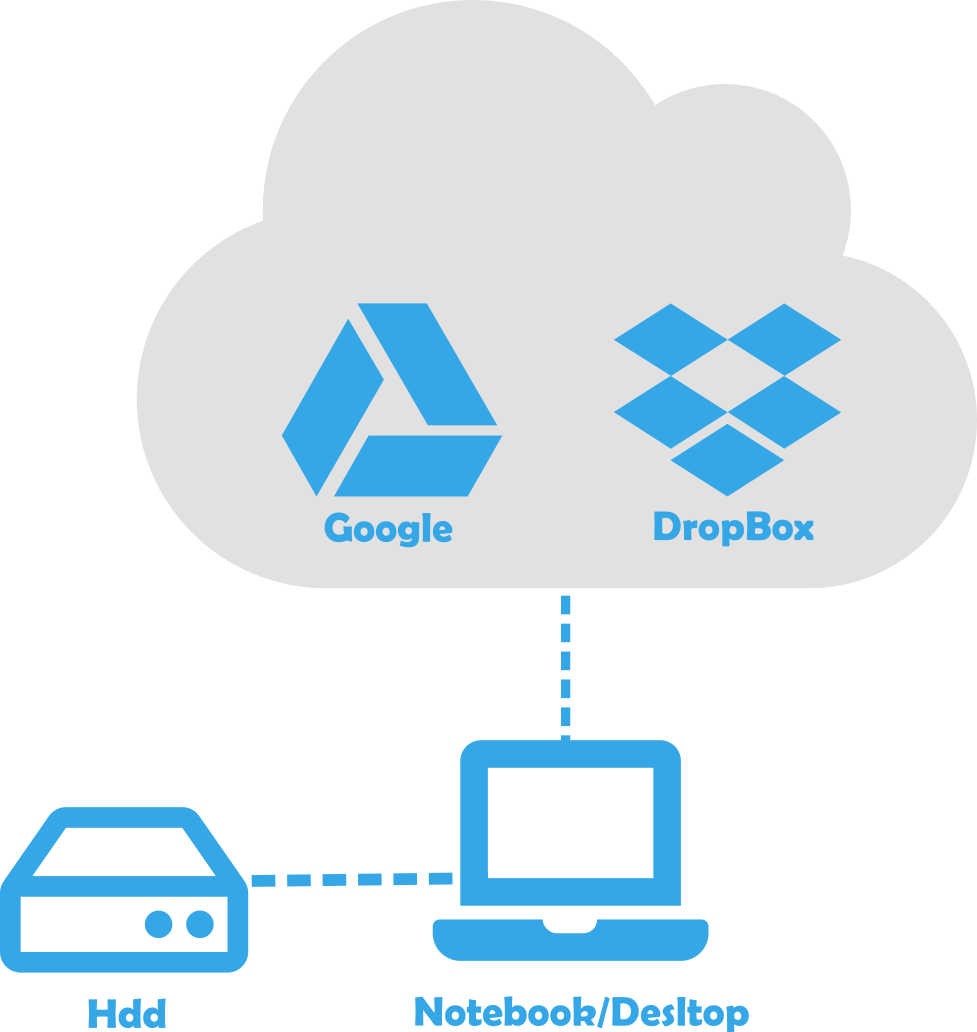
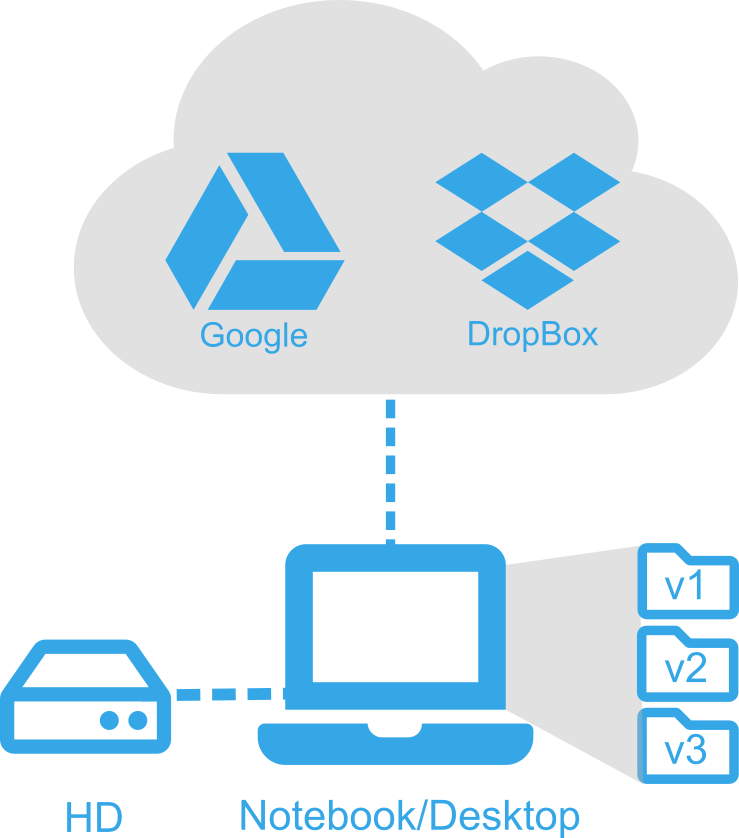
padrão ok

diff --git a/docs/padrao_db.html b/docs/padrao_db.html
@@ -381,7 +381,7 @@ text-align: justify}
 </style>
 <div id="visão-geral" class="section level2">
 <h2>Visão Geral</h2>
-<p>Este documento tem como objetivo registrar os padrões a serem seguidos para a formatação das bases de dados produzidas no âmbito do <strong>PELD-ILOC</strong>. Os formatos e procedimentos aqui descritos são um resultado do <em>workshop</em> realizado em 17 de setembro de 2021. <br><br></p>
+<p>Este documento tem como objetivo registrar os padrões a serem seguidos pelos pesquisadores da rede para a formatação das bases de dados produzidas no âmbito do <strong>PELD-ILOC</strong>. Os formatos e procedimentos aqui descritos são um resultado do <em>workshop</em> realizado em 17 de setembro de 2021. <br><br></p>
 </div>
 <div id="padronização-dados-peld-iloc" class="section level2">
 <h2>Padronização dados PELD-ILOC</h2>
@@ -425,56 +425,190 @@ text-align: justify}
 </tr>
 <tr class="odd">
 <td align="left">Adição de aba README</td>
-<td align="center">Criação desta aba (Ver <a href="https://peld-iloc.github.io/Peld_Iloc_Data_WS/dados.html">Organização de bancos de dados</a>)</td>
+<td align="center">Criação desta aba</td>
 </tr>
 <tr class="even">
 <td align="left">Fotos analisadas</td>
-<td align="center">Verificar nome do arquvivo de foto e/ou vide e veficar se estão nas pastas <br><br></td>
+<td align="center">Verificar nome do arquivo de foto e/ou video e verificar se estão nas pastas</td>
 </tr>
 </tbody>
 </table>
+<p><br><br></p>
 <div id="coordenadas-e-nomes-de-sites" class="section level3">
 <h3>Coordenadas e nomes de <em>sites</em></h3>
-<p>A conferência de coordenadas e nomes de locais gerou um arquivo de referência. Este arquivo foi obtido com informações pessoais de pesquisadores que estiveram nos locais e conferêncis com publicações. Es</p>
+<p>A conferência de coordenadas e nomes de locais gerou um arquivo de referência. Este arquivo foi obtido com informações pessoais de pesquisadores que estiveram nos locais e com base em publicações do <strong>PELD-ILOC</strong>.</p>
+<p>Arquivo excel com as coordendas confirmadas para cada <em>site</em>.</p>
+<p><a href="https://github.com/peld-iloc/site_coordinates">peld_iloc_site_coordinates_Thiago_Silveira_2021_08_11.xlsx</a></p>
+<p>A idéia é que este arquivo seja atualizado ao passo que bases de dados sejam revisadas e conferidas.</p>
+<p>A tabela abaixo lista o status de confirmação de nomes de sites e coordenadas do <strong>PELD-ILOC</strong>:</p>
+<table>
+<thead>
+<tr class="header">
+<th align="left">Grupo</th>
+<th align="center">Status</th>
+</tr>
+</thead>
+<tbody>
+<tr class="odd">
+<td align="left">Peixes Recifais</td>
+<td align="center"><svg viewBox="0 0 512 512" style="height:1em;position:relative;display:inline-block;top:.1em;" xmlns="http://www.w3.org/2000/svg"> <path d="M173.898 439.404l-166.4-166.4c-9.997-9.997-9.997-26.206 0-36.204l36.203-36.204c9.997-9.998 26.207-9.998 36.204 0L192 312.69 432.095 72.596c9.997-9.997 26.207-9.997 36.204 0l36.203 36.204c9.997 9.997 9.997 26.206 0 36.204l-294.4 294.401c-9.998 9.997-26.207 9.997-36.204-.001z"></path></svg></td>
+</tr>
+<tr class="even">
+<td align="left">Bentos (Noronha e Rocas)</td>
+<td align="center"><svg viewBox="0 0 512 512" style="height:1em;position:relative;display:inline-block;top:.1em;" xmlns="http://www.w3.org/2000/svg"> <path d="M173.898 439.404l-166.4-166.4c-9.997-9.997-9.997-26.206 0-36.204l36.203-36.204c9.997-9.998 26.207-9.998 36.204 0L192 312.69 432.095 72.596c9.997-9.997 26.207-9.997 36.204 0l36.203 36.204c9.997 9.997 9.997 26.206 0 36.204l-294.4 294.401c-9.998 9.997-26.207 9.997-36.204-.001z"></path></svg></td>
+</tr>
+<tr class="odd">
+<td align="left">Grapsus</td>
+<td align="center"><svg viewBox="0 0 352 512" style="height:1em;position:relative;display:inline-block;top:.1em;" xmlns="http://www.w3.org/2000/svg"> <path d="M242.72 256l100.07-100.07c12.28-12.28 12.28-32.19 0-44.48l-22.24-22.24c-12.28-12.28-32.19-12.28-44.48 0L176 189.28 75.93 89.21c-12.28-12.28-32.19-12.28-44.48 0L9.21 111.45c-12.28 12.28-12.28 32.19 0 44.48L109.28 256 9.21 356.07c-12.28 12.28-12.28 32.19 0 44.48l22.24 22.24c12.28 12.28 32.2 12.28 44.48 0L176 322.72l100.07 100.07c12.28 12.28 32.2 12.28 44.48 0l22.24-22.24c12.28-12.28 12.28-32.19 0-44.48L242.72 256z"></path></svg></td>
+</tr>
+<tr class="even">
+<td align="left">Bioprospecção</td>
+<td align="center"><svg viewBox="0 0 352 512" style="height:1em;position:relative;display:inline-block;top:.1em;" xmlns="http://www.w3.org/2000/svg"> <path d="M242.72 256l100.07-100.07c12.28-12.28 12.28-32.19 0-44.48l-22.24-22.24c-12.28-12.28-32.19-12.28-44.48 0L176 189.28 75.93 89.21c-12.28-12.28-32.19-12.28-44.48 0L9.21 111.45c-12.28 12.28-12.28 32.19 0 44.48L109.28 256 9.21 356.07c-12.28 12.28-12.28 32.19 0 44.48l22.24 22.24c12.28 12.28 32.2 12.28 44.48 0L176 322.72l100.07 100.07c12.28 12.28 32.2 12.28 44.48 0l22.24-22.24c12.28-12.28 12.28-32.19 0-44.48L242.72 256z"></path></svg></td>
+</tr>
+<tr class="odd">
+<td align="left">Bruv</td>
+<td align="center"><svg viewBox="0 0 352 512" style="height:1em;position:relative;display:inline-block;top:.1em;" xmlns="http://www.w3.org/2000/svg"> <path d="M242.72 256l100.07-100.07c12.28-12.28 12.28-32.19 0-44.48l-22.24-22.24c-12.28-12.28-32.19-12.28-44.48 0L176 189.28 75.93 89.21c-12.28-12.28-32.19-12.28-44.48 0L9.21 111.45c-12.28 12.28-12.28 32.19 0 44.48L109.28 256 9.21 356.07c-12.28 12.28-12.28 32.19 0 44.48l22.24 22.24c12.28 12.28 32.2 12.28 44.48 0L176 322.72l100.07 100.07c12.28 12.28 32.2 12.28 44.48 0l22.24-22.24c12.28-12.28 12.28-32.19 0-44.48L242.72 256z"></path></svg></td>
+</tr>
+<tr class="even">
+<td align="left">Colônias de Coral (G.longo)</td>
+<td align="center"><svg viewBox="0 0 352 512" style="height:1em;position:relative;display:inline-block;top:.1em;" xmlns="http://www.w3.org/2000/svg"> <path d="M242.72 256l100.07-100.07c12.28-12.28 12.28-32.19 0-44.48l-22.24-22.24c-12.28-12.28-32.19-12.28-44.48 0L176 189.28 75.93 89.21c-12.28-12.28-32.19-12.28-44.48 0L9.21 111.45c-12.28 12.28-12.28 32.19 0 44.48L109.28 256 9.21 356.07c-12.28 12.28-12.28 32.19 0 44.48l22.24 22.24c12.28 12.28 32.2 12.28 44.48 0L176 322.72l100.07 100.07c12.28 12.28 32.2 12.28 44.48 0l22.24-22.24c12.28-12.28 12.28-32.19 0-44.48L242.72 256z"></path></svg></td>
+</tr>
+<tr class="odd">
+<td align="left">Dinoflagelados</td>
+<td align="center"><svg viewBox="0 0 352 512" style="height:1em;position:relative;display:inline-block;top:.1em;" xmlns="http://www.w3.org/2000/svg"> <path d="M242.72 256l100.07-100.07c12.28-12.28 12.28-32.19 0-44.48l-22.24-22.24c-12.28-12.28-32.19-12.28-44.48 0L176 189.28 75.93 89.21c-12.28-12.28-32.19-12.28-44.48 0L9.21 111.45c-12.28 12.28-12.28 32.19 0 44.48L109.28 256 9.21 356.07c-12.28 12.28-12.28 32.19 0 44.48l22.24 22.24c12.28 12.28 32.2 12.28 44.48 0L176 322.72l100.07 100.07c12.28 12.28 32.2 12.28 44.48 0l22.24-22.24c12.28-12.28 12.28-32.19 0-44.48L242.72 256z"></path></svg></td>
+</tr>
+<tr class="even">
+<td align="left">Interação Peixes-Bentos</td>
+<td align="center"><svg viewBox="0 0 352 512" style="height:1em;position:relative;display:inline-block;top:.1em;" xmlns="http://www.w3.org/2000/svg"> <path d="M242.72 256l100.07-100.07c12.28-12.28 12.28-32.19 0-44.48l-22.24-22.24c-12.28-12.28-32.19-12.28-44.48 0L176 189.28 75.93 89.21c-12.28-12.28-32.19-12.28-44.48 0L9.21 111.45c-12.28 12.28-12.28 32.19 0 44.48L109.28 256 9.21 356.07c-12.28 12.28-12.28 32.19 0 44.48l22.24 22.24c12.28 12.28 32.2 12.28 44.48 0L176 322.72l100.07 100.07c12.28 12.28 32.2 12.28 44.48 0l22.24-22.24c12.28-12.28 12.28-32.19 0-44.48L242.72 256z"></path></svg></td>
+</tr>
+<tr class="odd">
+<td align="left">Zooxantelas</td>
+<td align="center"><svg viewBox="0 0 352 512" style="height:1em;position:relative;display:inline-block;top:.1em;" xmlns="http://www.w3.org/2000/svg"> <path d="M242.72 256l100.07-100.07c12.28-12.28 12.28-32.19 0-44.48l-22.24-22.24c-12.28-12.28-32.19-12.28-44.48 0L176 189.28 75.93 89.21c-12.28-12.28-32.19-12.28-44.48 0L9.21 111.45c-12.28 12.28-12.28 32.19 0 44.48L109.28 256 9.21 356.07c-12.28 12.28-12.28 32.19 0 44.48l22.24 22.24c12.28 12.28 32.2 12.28 44.48 0L176 322.72l100.07 100.07c12.28 12.28 32.2 12.28 44.48 0l22.24-22.24c12.28-12.28 12.28-32.19 0-44.48L242.72 256z"></path></svg></td>
+</tr>
+</tbody>
+</table>
+<p><br></p>
+<svg viewBox="0 0 576 512" style="height:1em;position:relative;display:inline-block;top:.1em;" xmlns="http://www.w3.org/2000/svg">
+<path d="M569.517 440.013C587.975 472.007 564.806 512 527.94 512H48.054c-36.937 0-59.999-40.055-41.577-71.987L246.423 23.985c18.467-32.009 64.72-31.951 83.154 0l239.94 416.028zM288 354c-25.405 0-46 20.595-46 46s20.595 46 46 46 46-20.595 46-46-20.595-46-46-46zm-43.673-165.346l7.418 136c.347 6.364 5.609 11.346 11.982 11.346h48.546c6.373 0 11.635-4.982 11.982-11.346l7.418-136c.375-6.874-5.098-12.654-11.982-12.654h-63.383c-6.884 0-12.356 5.78-11.981 12.654z"></path>
+</svg>
+<p>Uma dica importante na hora da revisão das coordendas é formatar a coluna como <strong>texto</strong>. Isso evita a formatação automática que o <strong>excel</strong> faz caso você esteja usando o padrão de linguagem em Português. <br><br></p>
 </div>
+<div id="datas" class="section level3">
+<h3>Datas</h3>
+<p>O formato de registro de datas a ser adotado é dia, mês e ano em colunas separadas.</p>
 </div>
-<div id="padrão-geral-de-organização" class="section level2">
-<h2>Padrão Geral de Organização</h2>
+<div id="nomes-de-variáveis" class="section level3">
+<h3>Nomes de variáveis</h3>
+<p>Sugere-se que se use somente letras minúsculas com separação entre palavras usando "_".</p>
+<p>Abaixo algumas sugestões de nomes de variáveis:</p>
+<table>
+<thead>
+<tr class="header">
+<th align="center">Variável</th>
+<th align="center">Boa opção</th>
+<th align="center">Evitar</th>
+</tr>
+</thead>
+<tbody>
+<tr class="odd">
+<td align="center">Temperatura máxima (graus Celsius)</td>
+<td align="center">max_temp_c</td>
+<td align="center">Maximun Temp (C°)</td>
+</tr>
+<tr class="even">
+<td align="center">Precipitação (mm)</td>
+<td align="center">precip_mm</td>
+<td align="center">prec</td>
+</tr>
+<tr class="odd">
+<td align="center">Massa (Kg)</td>
+<td align="center">massa_kg</td>
+<td align="center">Massa (Kg)</td>
+</tr>
+<tr class="even">
+<td align="center">Visibilidade horizontal (metros)</td>
+<td align="center">vis_hrz_m</td>
+<td align="center">visib (m)</td>
+</tr>
+<tr class="odd">
+<td align="center">Latitude (graus decimais)</td>
+<td align="center">lat_DD</td>
+<td align="center">lat</td>
+</tr>
+</tbody>
+</table>
+</div>
+<div id="nomes-de-espécies" class="section level3">
+<h3>Nomes de espécies</h3>
+<p>Os nomes das identificações taxonômicas podem ser confirmados utilizando-se funções do pacote worms e rfishbase.</p>
+<p>Abaixo um exemplo de como fazer a validação de nomes de espécies usando o pacote <strong>worms</strong>. O mesmo procedimento pode ser realizado também usando o pacote <strong>rfishbase</strong>. Scripts de exemplo podem ser acessados <a href="https://github.com/peld-iloc/taxonomic_validation">neste repositório</a> do <strong>PELD-ILOC</strong>.</p>
+<pre class="r"><code>library(worms)
+# Criando o vetor de táxons
+sp_Names = unique(DF.benthos$name) 
+
+# Passo 1
+# Extraindo taxon rank do WoRMS e identificando os nomes inválidos
+scNames_rank = wormsbynames(sp_Names, verbose = F)
+
+# Passo 2 - listando os nomes não aceitos
+scNames_rank %&gt;% 
+  filter( status == &quot;unaccepted&quot;)
+
+# Alterando os nomes manualmente para os nomes válidos indicados pelo WoRMS 
+DF.benthos = DF.benthos %&gt;%
+    mutate(name = str_replace(name, pattern = &quot;favia_leptophylla&quot;, replacement = &quot;mussismilia_leptophylla&quot;)) %&gt;%
+    mutate(name = str_replace(name, pattern = &quot;protopalythoa&quot;, replacement = &quot;palythoa&quot;)) %&gt;%  
+
+#  Passo 3  - Rodando novamente para confirmar 
+sp_Names = unique(DF.benthos$name)
+scNames_rank = wormsbynames(sp_Names, verbose = F)
+
+scNames_rank %&gt;% 
+  filter( status == &quot;unaccepted&quot;)
+# Zero issues - ok</code></pre>
+<p><br><br></p>
+</div>
+<div id="arquivo-ou-aba-readme" class="section level3">
+<h3>Arquivo ou aba README</h3>
+<p>Será adotado pelo PELD-ILOC que todos os arquivos de dados produzidos apresentem uma aba ou arquivo <strong>README</strong>. A adição destas informações, ou <strong>metadados</strong>. é importante compreenssão do que está sendo apresentado no arquivo.</p>
+<p>Neste <a href="https://github.com/peld-iloc/data_example">respositório</a> você pode acessar dois exemplos de bancos de dados com os <strong>dados</strong> e <strong>metadados (README)</strong>.<br />
+<br><br></p>
+</div>
 <div id="tipos-de-arquivos" class="section level3">
 <h3>Tipos de arquivos</h3>
 <p>Os dados dos diferentes grupos e variáveis amostradas no <strong>PELD-ILOC</strong> são armazenadas em arquivos <strong>excel</strong>. Os arquivos tipo .xlsx são adequados para o armazenamento dos dados e são de fácil acesso e edição por todos os usuários das rede. Também são aceitos arquivos do tipo .csv, desde de que sigam as orientações a seguir. Além dos arquivos de dados, são armazenados também arquivos de fotos e vídeos. <br><br></p>
 <p><img src= "figs/padrao_db_4.png" style= "width:90%"> <br><br></p>
 </div>
-<div id="estrutura-de-organização-de-arquivos" class="section level3">
-<h3>Estrutura de organização de arquivos</h3>
-<div id="banco-de-dados-simples" class="section level4">
-<h4>Banco de dados simples</h4>
+</div>
+<div id="estrutura-de-organização-de-arquivos" class="section level2">
+<h2>Estrutura de organização de arquivos</h2>
+<div id="banco-de-dados-simples" class="section level3">
+<h3>Banco de dados simples</h3>
 <p>Abaixo um modelo simples de organização de dados para os Peixes Recifais:</p>
 <p><img src= "figs/padrao_db_1.png" style= "width:70%"></p>
 <p>Ainda no mesmo arquivo, sugere-se fortemente que seja adicionada uma aba <strong>README</strong>.</p>
 <p>Caso sejam dados apresentados em formato .txt ou .csv, sugere-se a criação de uma pasta zip com dois arquivos: os dados e o arquivo <strong>README</strong></p>
 <p><img src= "figs/padrao_db_2.png" style= "width:70%"><br />
 <br><br><br></p>
-<p>(link modelo)[ ]</p>
-</div>
+<p><a href="https://github.com/peld-iloc/data_example">Exemplo</a> <br><br></p>
 </div>
 <div id="bancos-de-dados-acompanhados-de-outras-mídias-fotos-e-videos" class="section level3">
 <h3>Bancos de Dados acompanhados de outras mídias (Fotos e Videos)</h3>
 <p>Algumas bases de dados são mais complexas e apresentam além de um arquivo com os dados pastas com fotos analisadas em Photoquad ou Cpce.</p>
 <p>Abaixo um modelo de organização proposto para Comunidade de Bentos:</p>
 <p><img src= "figs/padrao_db_3.png" style= "width:70%"> <br><br></p>
-<p>(link modelo)[ ]</p>
+<p><a href="https://github.com/peld-iloc/data_example">Exemplo</a></p>
 </div>
-<div id="nomeação-de-arquivos" class="section level3">
-<h3>Nomeação de arquivos</h3>
+<div id="nomeando-de-arquivos" class="section level3">
+<h3>Nomeando de arquivos</h3>
 <p>Considerando os tipos de dados disponíveis, sugere-se que os arquivos sejam nomeados da seguinte maneira:</p>
 <p><img src= "figs/padrao_db_5.png" style= "width:90%"> <br><br><br></p>
-<p>Com o objetivo de padronizar os nomes dios grupos, abaixo segue uma sugestão: <br><br></p>
+<p>Com o objetivo de padronizar os nomes dos grupos, abaixo segue uma sugestão: <br><br></p>
 <table>
 <thead>
 <tr class="header">
 <th align="center">Grupo</th>
-<th align="center">Tipo de dado</th>
+<th align="center">Tipo de informação</th>
 <th align="right">Sugestão de código para o grupo</th>
 </tr>
 </thead>
@@ -536,10 +670,13 @@ text-align: justify}
 </div>
 <div id="back-up-dos-dados" class="section level2">
 <h2>Back up dos dados</h2>
-<p>Seguindo a regra dos 3-2-1</p>
-<p>google drive</p>
-<p>Drop box</p>
-<p>Hard drive/computador</p>
+<p>Os dados enviados de cada grupo estão sendo salvos em um repositório do Google Drive. Estes arquivos enviados também são salvos nos nos computadores dos pesquisadores que estão analisando os dados, obviamente. No entanto, não foi detectado um protocolo formal de como e onde estes arquivos estão sendo salvos com a curadoria do <strong>PELD-ILOC</strong>.</p>
+<p>A sugestão é que se aplique a regra do 3-2-1.</p>
+<ul>
+<li><p>3 cópias diferentes ou versões: três cópias com versões de diferentes períodos. Por exemplo, atualmente temos uma <strong>versão 1</strong> da pasta com todos os dados enviados. Após o workshop teremos uma <strong>versão 2</strong> com todos o bancos de dados atualizados e conferidos. Depois de tabular todos os dados de uma próxima expedição poderemos ter a <strong>versão 3</strong> temporal do conjunto de dados;</p></li>
+<li><p>2 tipos de mídias: Ter a cópia das versões em mais de um tipo de mídia, por exemplo, HD/pen drive e um computador. De preferência que estes não fiquem no mesmo local.</p></li>
+<li><p>1 cópia em local externo: Serviços como Google Drive ou DropBox. <br><br></p></li>
+</ul>
 <p><img src= "figs/padrao_db_6.png" style= "width:70%"> <br><br><br></p>
 </div>
 

diff --git a/docs/github.html b/docs/github.html
@@ -621,7 +621,7 @@ git push</code></pre>
 </div>
 <div id="avançado-fork-branch-pull-request-e-merge" class="section level3">
 <h3>5.3 Avançado: <code>fork</code>, <code>branch</code>, <code>pull request</code> e <code>merge</code></h3>
-<p>Agora que já vimos como fazer as principais ações usando o <strong>Git</strong> e <strong>Github</strong>, agora podemos executar um grupo de comandos que consiste na grande vantagem de se usar o <strong>Github</strong>: a colaboração com controle de versão. Abaixo um resumo dos comandos serão abordados:</p>
+<p>Agora que já vimos como fazer as principais ações usando o <strong>Git</strong> e <strong>Github</strong>, agora podemos executar um grupo de comandos que consiste na grande vantagem de se usar o <strong>Github</strong>: a colaboração com controle de versão. Abaixo um resumo dos comandos abordados:</p>
 <table>
 <thead>
 <tr class="header">
@@ -631,7 +631,7 @@ git push</code></pre>
 </thead>
 <tbody>
 <tr class="odd">
-<td align="center"><code>fork</code> <code>fork</code> <svg viewBox="0 0 16 16" style="height:1em;position:relative;display:inline-block;top:.1em;" xmlns="http://www.w3.org/2000/svg"> <path fill-rule="evenodd" d="M5 3.25a.75.75 0 11-1.5 0 .75.75 0 011.5 0zm0 2.122a2.25 2.25 0 10-1.5 0v.878A2.25 2.25 0 005.75 8.5h1.5v2.128a2.251 2.251 0 101.5 0V8.5h1.5a2.25 2.25 0 002.25-2.25v-.878a2.25 2.25 0 10-1.5 0v.878a.75.75 0 01-.75.75h-4.5A.75.75 0 015 6.25v-.878zm3.75 7.378a.75.75 0 11-1.5 0 .75.75 0 011.5 0zm3-8.75a.75.75 0 100-1.5.75.75 0 000 1.5z"></path></svg></td>
+<td align="center"><code>fork</code> <svg viewBox="0 0 16 16" style="height:1em;position:relative;display:inline-block;top:.1em;" xmlns="http://www.w3.org/2000/svg"> <path fill-rule="evenodd" d="M5 3.25a.75.75 0 11-1.5 0 .75.75 0 011.5 0zm0 2.122a2.25 2.25 0 10-1.5 0v.878A2.25 2.25 0 005.75 8.5h1.5v2.128a2.251 2.251 0 101.5 0V8.5h1.5a2.25 2.25 0 002.25-2.25v-.878a2.25 2.25 0 10-1.5 0v.878a.75.75 0 01-.75.75h-4.5A.75.75 0 015 6.25v-.878zm3.75 7.378a.75.75 0 11-1.5 0 .75.75 0 011.5 0zm3-8.75a.75.75 0 100-1.5.75.75 0 000 1.5z"></path></svg></td>
 <td align="center">Copia um diretório do Github</td>
 </tr>
 <tr class="even">
